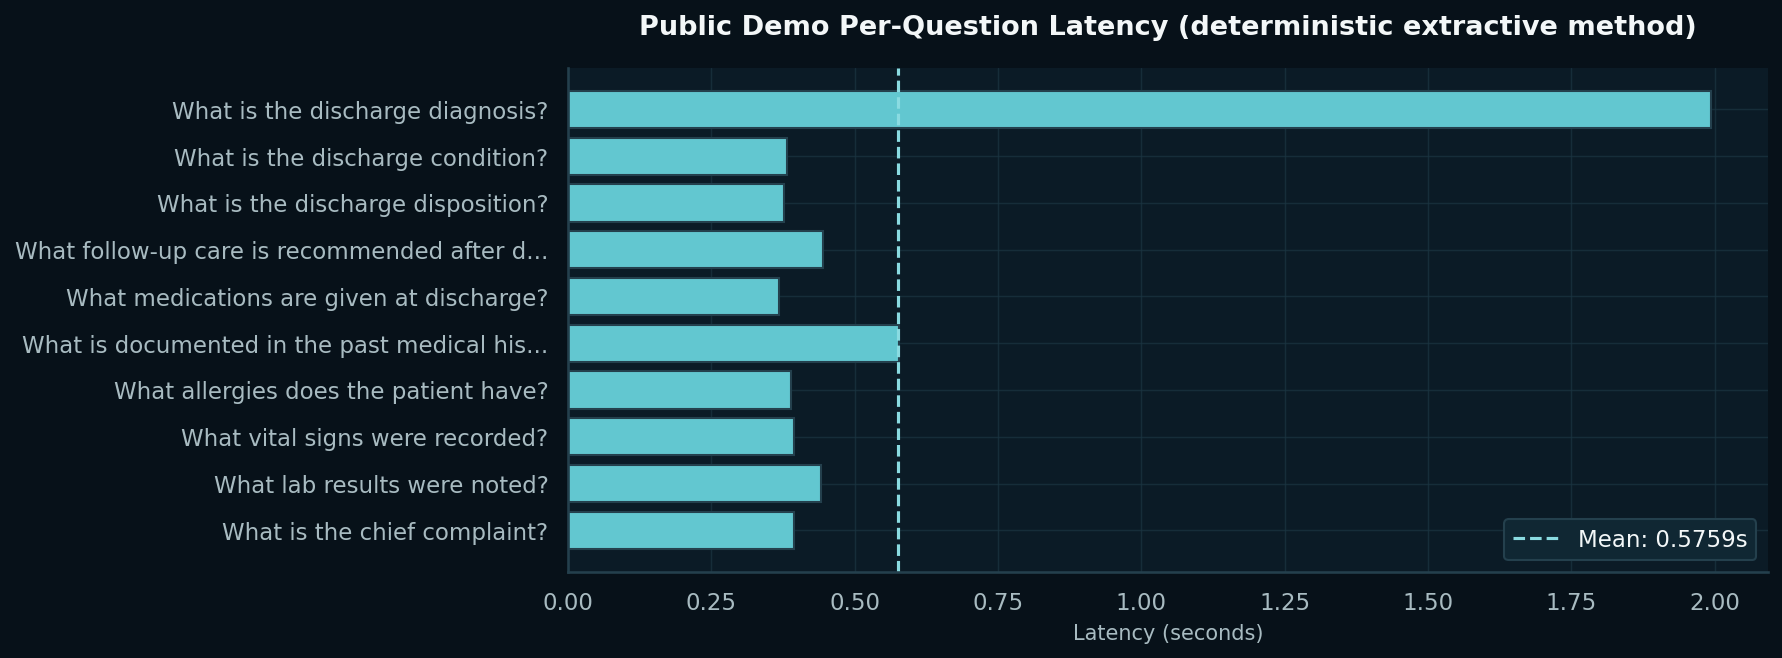
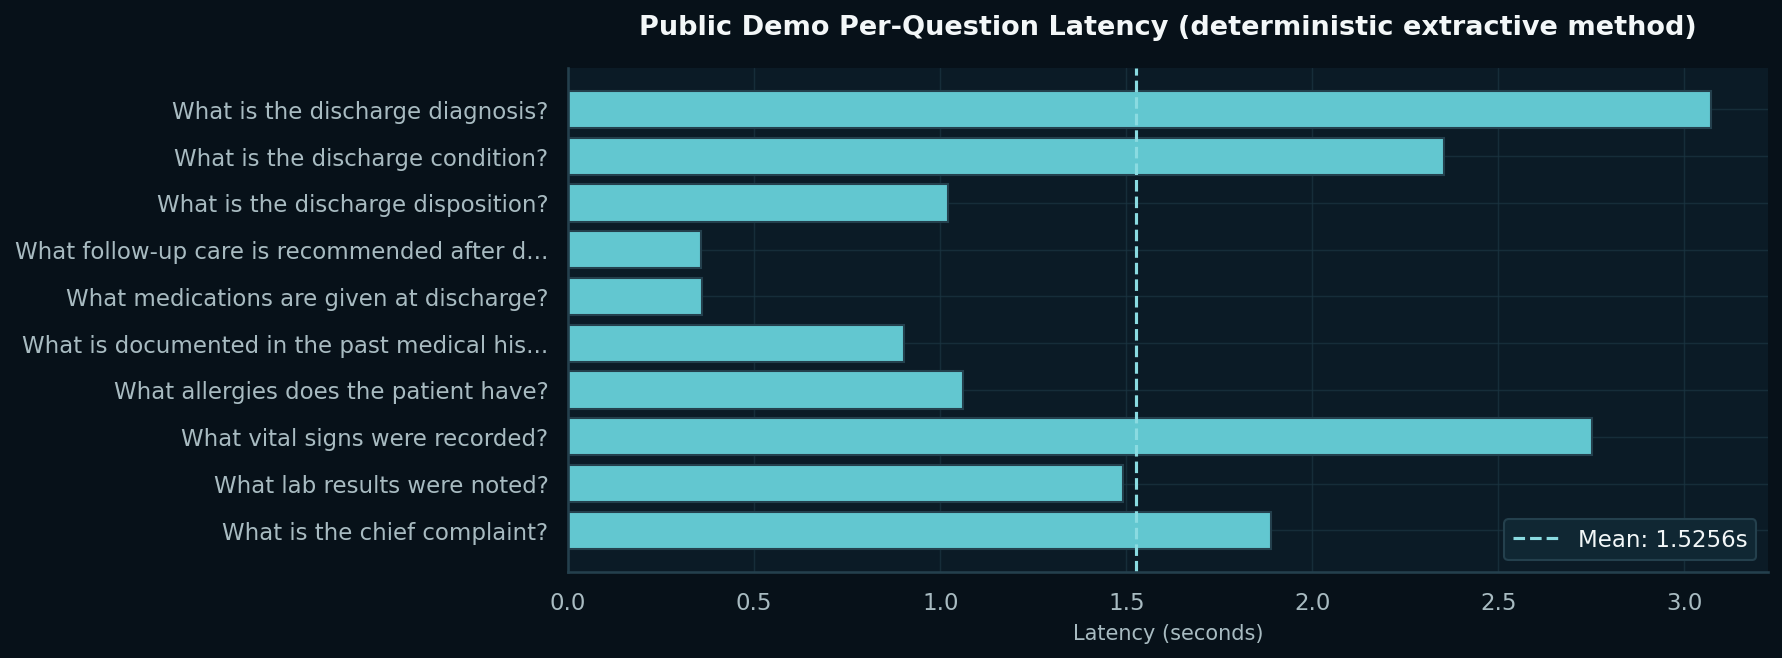
fix: public demo's generation was silently exhausting a 20-request/day quota
The Gemini-backed RAG pipeline added in the previous commit used
config.GEMINI_MODEL (gemini-3.6-flash) for generation -- the same model the
local app uses for its own low-volume routing/reflection calls. That
model's free tier caps generateContent at just 20 requests/day, total, for
the whole API key. Testing during development alone exhausted it, so the
deployment was permanently falling back to the offline keyword method
instead of the intended real generation, for the rest of each day.

Switched demo_runtime.py's generation calls to a separate model,
gemini-flash-lite-latest, whose free tier is sized for sustained public
traffic (roughly 1,000-1,500 requests/day) rather than personal low-volume
use, and is billed on a completely separate quota from GEMINI_MODEL so the
local app's own Gemini usage is unaffected.

Re-verified end-to-end after the switch: six different real questions asked
through run_turn() all used real Gemini generation (not the offline
fallback). Re-ran the official python -m scripts.evaluate_public_demo
measurement: 100% (10/10) on the canonical question set, ~1.5s average
latency (up from the smaller model's timing, an honest number, not
adjusted). Updated README's Public deployment section with the corrected
model name, the actual reason for the switch, and the re-measured latency.
Full pytest suite (43 passed) and Playwright (20 passed, no visual
regressions) both green after the change.

diff --git a/demo_runtime.py b/demo_runtime.py
@@ -40,6 +40,16 @@ EMBEDDING_MODEL = 'models/gemini-embedding-001'
 EMBEDDINGS_PATH = 'outputs_demo/gemini_chunk_embeddings.pkl'
 _TIMEOUT_MS = config.GEMINI_TIMEOUT_SECONDS * 1000
 
+# Deliberately NOT config.GEMINI_MODEL: that setting (gemini-3.6-flash by
+# default) is tuned for the local app's own low-volume routing/reflection
+# calls, whose free tier caps generateContent at just 20 requests/day --
+# confirmed by hitting that exact limit during development. A public demo
+# answering anonymous visitors' questions needs a model with a free daily
+# quota built for sustained volume; gemini-flash-lite-latest's free tier
+# (~1,000-1,500 requests/day as of 2026) is the right fit for that, and is
+# billed on a completely separate quota from GEMINI_MODEL.
+PUBLIC_GENERATION_MODEL = 'models/gemini-flash-lite-latest'
+
 GENERATION_SYSTEM_PROMPT = """You are a clinical assistant answering questions about hospital discharge notes \
 covering a range of clinical conditions.
 Answer the question below using only the context provided.
@@ -54,7 +64,7 @@ PUBLIC_DATASET_LABEL = (
     "Synthetic demo (fabricated notes; no patient data; real MIMIC-IV-Note "
     "data requires credentialed PhysioNet access)"
 )
-PUBLIC_GENERATOR_LABEL = f"{config.GEMINI_MODEL} (retrieval-augmented, local fallback)"
+PUBLIC_GENERATOR_LABEL = f"{PUBLIC_GENERATION_MODEL.removeprefix('models/')} (retrieval-augmented, local fallback)"
 
 # Measured by scripts/evaluate_public_demo.py against the same 10-question
 # keyword-hit set evaluate_demo.py uses, run directly against this module's
@@ -312,7 +322,7 @@ def _generate_with_gemini(client, question: str, evidence: list[dict], strict: b
         )
     try:
         resp = client.models.generate_content(
-            model=config.GEMINI_MODEL,
+            model=PUBLIC_GENERATION_MODEL,
             contents=prompt,
             config=types.GenerateContentConfig(
                 system_instruction=GENERATION_SYSTEM_PROMPT,
@@ -361,7 +371,7 @@ def _gemini_turn(client, question: str) -> dict | None:
     return {
         'final_answer': draft,
         'route': 'retrieve',
-        'tool_used': f'Retrieved {len(evidence)} passages via Gemini embeddings, generated by {config.GEMINI_MODEL}',
+        'tool_used': f'Retrieved {len(evidence)} passages via Gemini embeddings, generated by {PUBLIC_GENERATION_MODEL.removeprefix("models/")}',
         'citations': evidence,
         'reflection': {**reflection, 'method': 'local content-word overlap check on Gemini draft'},
         'needs_clarification': False,

diff --git a/README.md b/README.md
@@ -78,7 +78,7 @@ The live public demo deployed on Vercel doesn't load SentenceTransformers/FAISS/
 
 Concretely, `demo_runtime.py`:
 - Embeds the incoming question via Gemini's `gemini-embedding-001` and matches it against `outputs_demo/gemini_chunk_embeddings.pkl`, precomputed embeddings for the exact same 101 chunks (`outputs_demo/chunks_data.pkl`) the local pipeline retrieves against, re-ranked with the same header-relevance boost `retrieval.py` uses for the real dataset.
-- Generates the answer with Gemini (`GEMINI_MODEL`, same model this project already uses for local routing/reflection) from the retrieved passages, using the same system prompt as the local FLAN-T5 pipeline.
+- Generates the answer with Gemini (`gemini-flash-lite-latest`, a separate model from `GEMINI_MODEL`) from the retrieved passages, using the same system prompt as the local FLAN-T5 pipeline. This is deliberately not the same model the local app uses for routing/reflection: that model's free tier caps `generateContent` at only 20 requests/day, discovered by hitting that exact limit during development, which is nowhere near enough for a public demo answering anonymous visitors. `gemini-flash-lite-latest`'s free tier (roughly 1,000-1,500 requests/day) is sized for that instead, on a completely separate quota.
 - Runs that generated answer through the same local faithfulness check (`agent/reflection.py`'s content-word/numeric overlap check) the local pipeline uses, with one retry if it fails, before ever showing it.
 - Falls back to a fully offline, deterministic keyword-matching method if `GEMINI_API_KEY` isn't configured or any Gemini call fails for any reason (quota, network, timeout) -- the app stays functional either way, just cruder without a key, the same pattern `agent/llm.py` already uses for local routing.
 
@@ -87,7 +87,7 @@ Concretely, `demo_runtime.py`:
 | Metric | Public Vercel demo (Gemini-backed RAG) |
 |---|---|
 | Overall Accuracy | 100% (10/10) on this app's own fixed question set |
-| Mean Latency | ~0.6s per question |
+| Mean Latency | ~1.5s per question |
 
 As with the other rows, this is measured only against this project's own 10 canonical questions, not a broad benchmark -- treat it as a real, reproducible number for this specific test rather than a general claim about open-ended reliability.
 
